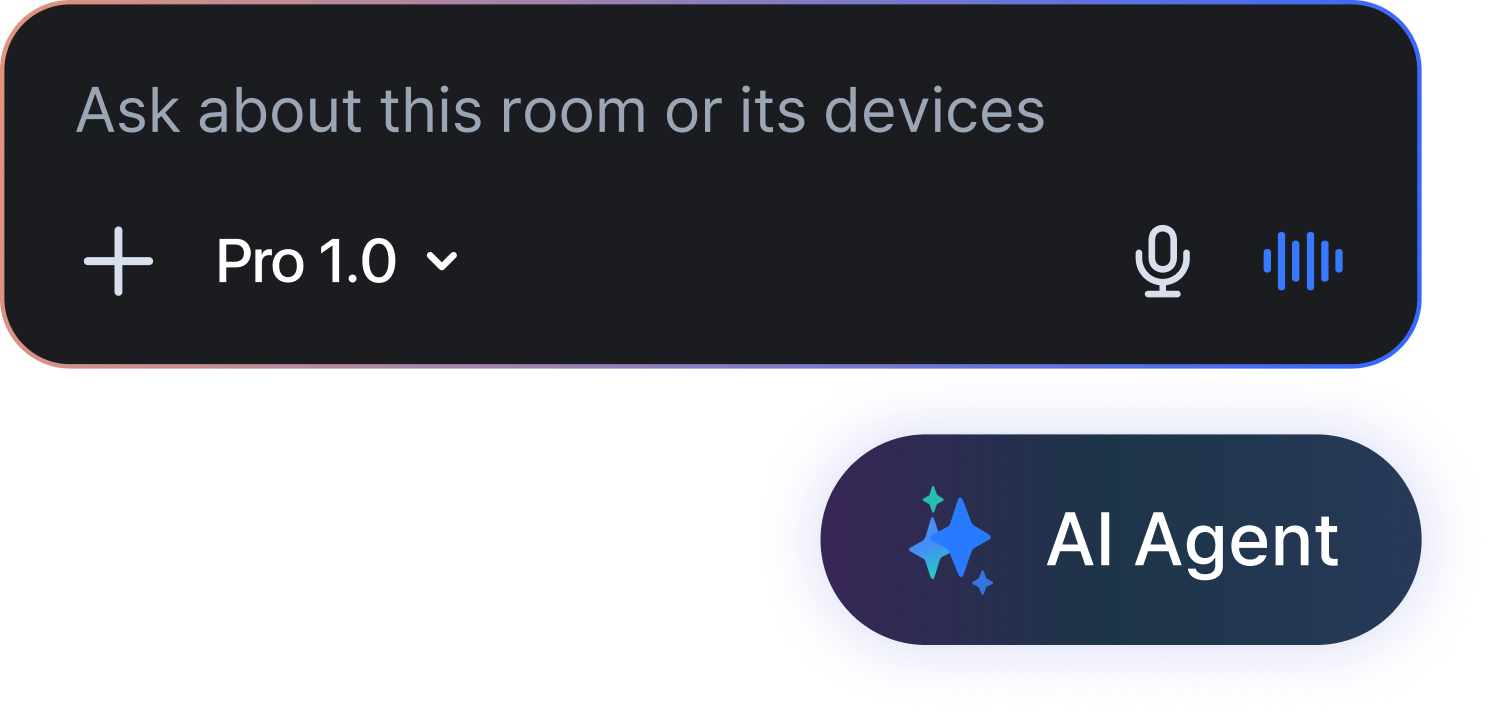
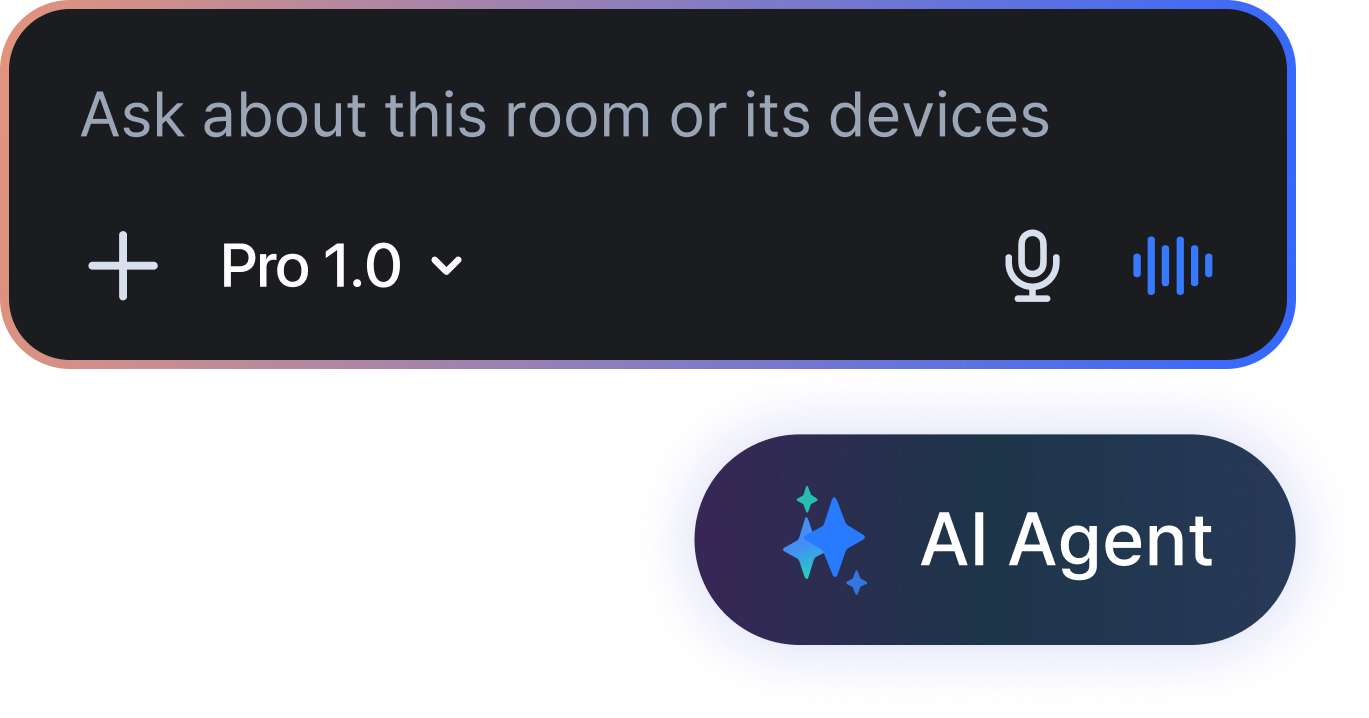
Match Samsung previews to the Figma layout

diff --git a/samsung-workspace.js b/samsung-workspace.js
@@ -43,13 +43,13 @@
       <div class="samsung-workspace__stage" data-samsung-stage>
         <div class="samsung-story__copy"><span class="samsung-story__eyebrow">Multitask with three apps at once</span><h2 id="samsung-workspace-title">Every task. One workspace.</h2><p>Work across three split-screen panes on a single display. Use up to three apps at once, or resize pop-up windows for greater flexibility. Browse the web, check messages, and follow directions side by side—keeping your workflow moving without switching screens.</p></div>
         <div class="samsung-workspace__visual"><div class="samsung-workspace__canvas">
-          <div class="samsung-workspace__device" aria-hidden="true"><div class="sw-wallpaper"></div><img class="sw-default-device" src="assets/samsung/workspace/fold-default.png" width="974" height="747" alt=""></div>
+          <div class="samsung-workspace__device" aria-hidden="true"><div class="sw-wallpaper"></div><div class="sw-default-device"><img class="sw-default-frame" src="assets/samsung/workspace/fold-default.png" width="974" height="747" alt=""><img class="sw-default-wallpaper" src="assets/samsung/workspace/default-wallpaper.png" width="932" height="705" alt=""><i class="sw-default-camera"></i></div></div>
           <div class="sw-screen sw-screen--control" data-samsung-screen="control" role="img" aria-label="Control Devices: lighting and temperature controls">${control()}</div>
           <div class="sw-screen sw-screen--visitor" data-samsung-screen="visitor" role="img" aria-label="Visitor Invitation: calendar and visitor access">${visitor()}</div>
           <div class="sw-screen sw-screen--ai" data-samsung-screen="ai" role="img" aria-label="AI Agent: prepare Meeting Room 1, review lighting and AC changes">${agent()}</div>
-          <img class="sw-preview" data-samsung-preview="control" src="assets/samsung/workspace/preview-control.png" width="429" height="227" alt="Lighting controls preview" draggable="false">
-          <img class="sw-preview" data-samsung-preview="visitor" src="assets/samsung/workspace/preview-visitor.png" width="424.667" height="197" alt="Calendar preview" draggable="false">
-          <img class="sw-preview" data-samsung-preview="ai" src="assets/samsung/workspace/preview-ai.png" width="498.333" height="239.333" alt="AI Agent input and button preview" draggable="false">
+          <img class="sw-preview" data-samsung-preview="control" src="assets/samsung/workspace/preview-control.png?v=layout-2" width="390" height="227" alt="Lighting controls preview" draggable="false">
+          <img class="sw-preview" data-samsung-preview="visitor" src="assets/samsung/workspace/preview-visitor.png" width="424.614868" height="197" alt="Calendar preview" draggable="false">
+          <img class="sw-preview" data-samsung-preview="ai" src="assets/samsung/workspace/preview-ai.png?v=layout-2" width="456.011719" height="239.132813" alt="AI Agent input and button preview" draggable="false">
           <div class="sw-status" aria-hidden="true"><img src="assets/samsung/workspace/status.svg" width="932" height="42" alt=""></div><div class="sw-camera" aria-hidden="true"></div><div class="sw-gesture" aria-hidden="true"></div>
         </div></div>
         <div class="samsung-workspace__controls" role="group" aria-label="Explore the workspace">${labels.map((label,i)=>`<button type="button" data-workspace-step="${i}" aria-pressed="${i===2}"><span aria-hidden="true">0${i+1}</span>${label}</button>`).join('')}</div>
@@ -85,14 +85,15 @@
         {x:261+2*(width+7),y:139,w:303.33,s:1},
       ];
       const floating = [{x:12,y:155,w:461,s:.55},{x:570,y:4,w:461,s:.55},{x:1190,y:170,w:461,s:.55}];
-      const compact = [{x:12,y:270,w:429,dy:170},{x:570,y:4,w:424.667,dy:110},{x:1115,y:250,w:498.333,dy:440}];
+      // Figma default Fold (2497:58714): preserve each preview’s native size and device-relative offset.
+      const compact = [{x:84,y:336,w:390,dy:170},{x:474,y:62,w:424.614868,dy:110},{x:893,y:544,w:456.011719,dy:440}];
       cards.forEach((card,i)=>{
         const t=arrivals[i], a=floating[i], b=settled[i];
         const reveal=ease((t-.55)/.45);
         card.style.opacity=reveal;
         card.setAttribute('aria-hidden',String(reveal===0));
         const preview=previews[i], start=compact[i];
-        preview.style.transform=`translate3d(${lerp(start.x,b.x+16,t)}px,${lerp(start.y,b.y+start.dy,t)}px,0) scale(${lerp(.65,Math.min(1,(b.w-32)/start.w),t)})`;
+        preview.style.transform=`translate3d(${lerp(start.x,b.x+16,t)}px,${lerp(start.y,b.y+start.dy,t)}px,0) scale(${lerp(1,Math.min(1,(b.w-32)/start.w),t)})`;
         preview.style.opacity=1-reveal;
         preview.setAttribute('aria-hidden',String(reveal===1));
         card.style.width=lerp(a.w,b.w,t)+'px';

diff --git a/samsung-workspace.css b/samsung-workspace.css
@@ -11,6 +11,9 @@
 .samsung-workspace__canvas p{margin:0}
 .samsung-workspace__device{position:absolute;left:238px;top:116px;width:974px;height:747px;border:5px solid #bcb9cf;border-radius:22px;background:#111;box-shadow:0 18px 40px #00000012;overflow:hidden}
 .sw-default-device{position:absolute;left:-5px;top:-5px;width:974px;height:747px;max-width:none}
+.sw-default-frame{display:block;width:974px;height:747px;max-width:none}
+.sw-default-wallpaper{position:absolute;left:21px;top:21px;width:932px;height:705px;max-width:none}
+.sw-default-camera{position:absolute;left:718px;top:34px;width:22px;height:22px;border-radius:50%;background:#000}
 .sw-preview{position:absolute;left:0;top:0;max-width:none;transform-origin:0 0;object-fit:contain;will-change:transform,opacity}
 .sw-wallpaper{position:absolute;inset:16px 16px 10px;border-radius:13px;background:radial-gradient(ellipse at 20% 10%,#273c50,transparent 65%),radial-gradient(ellipse at 100% 90%,#293945,transparent 70%),#191d23}
 .sw-screen{position:absolute;left:0;top:0;width:303.33px;height:692px;border-radius:13px;background:#000;overflow:hidden;transform-origin:0 0;container-type:inline-size;will-change:transform,width}

diff --git a/index.html b/index.html
@@ -294,7 +294,7 @@
 <link rel="stylesheet" href="siri-story.css?v=2016-2">
 <link rel="stylesheet" href="samsung-story.css?v=content-order-1">
 <link rel="stylesheet" href="samsung-governance.css?v=1">
-<link rel="stylesheet" href="samsung-workspace.css?v=compact-cards-1">
+<link rel="stylesheet" href="samsung-workspace.css?v=figma-positions-1">
 </head>
 <body>
 <header class="nav" id="nav">
@@ -323,7 +323,7 @@
 <script src="domino-background.js?v=2074-2"></script>
 <script src="assets/vendor/siriwave/siriwave-2.4.0.js"></script>
 <script src="siri-story.js?v=2016-2"></script>
-<script src="samsung-workspace.js?v=multitasking-copy-1"></script>
+<script src="samsung-workspace.js?v=figma-positions-1"></script>
 <script src="samsung-governance.js?v=1"></script>
 <script src="samsung-story.js?v=content-order-1"></script>
 <script>
